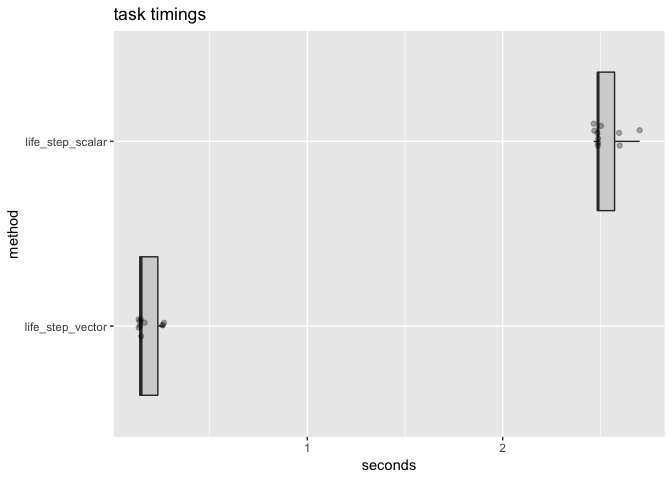
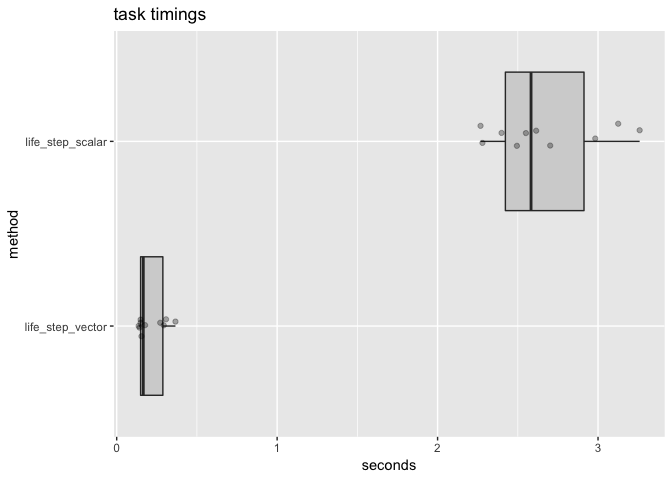
small init change

Changed region(s): [[0.7188, 0.125, 0.9375, 0.4688], [0.1875, 0.5312, 0.2812, 0.8438], [0.625, 0.9062, 0.6562, 0.9375]]

diff --git a/extras/ConwayLife/Timing.md b/extras/ConwayLife/Timing.md
@@ -9,7 +9,7 @@ library("WVPlots")
 life_step_scalar <- function(d) {
   nrow <- dim(d)[[1]]
   ncol <- dim(d)[[2]]
-  dnext <- d
+  dnext <- matrix(data = FALSE, nrow = nrow, ncol = ncol)
   for(i in seq_len(nrow)) {
     for(j in seq_len(ncol)) {
       pop <- 0
@@ -37,7 +37,7 @@ life_step_scalar <- function(d) {
           pop <- pop + d[i+1, j+1]
         }
       }
-      dnext[i,j] <- (pop==3) | (d[i,j] & (pop>=2) & (pop<=3))
+      dnext[i,j] <- (pop==3) || (d[i,j] & (pop>=2) & (pop<=3))
     }
   }
   dnext
@@ -69,12 +69,12 @@ print(timing)
 ```
 
     ## Unit: milliseconds
-    ##              expr       min        lq      mean   median        uq
-    ##  life_step_scalar 2465.5321 2484.6832 2528.1573 2488.318 2595.8243
-    ##  life_step_vector  136.7932  142.3746  181.2697  149.575  257.7223
-    ##       max neval cld
-    ##  2700.931    10   b
-    ##   266.507    10  a
+    ##              expr      min        lq      mean    median        uq
+    ##  life_step_scalar 2267.666 2398.6398 2667.4922 2582.4812 2982.7465
+    ##  life_step_vector  136.746  148.9997  214.6675  165.7251  293.2285
+    ##        max neval cld
+    ##  3259.3728    10   b
+    ##   366.2386    10  a
 
 ``` r
 tm <- data.frame(timing)
